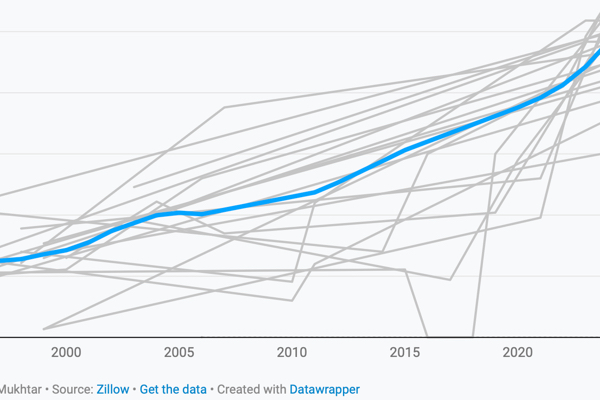
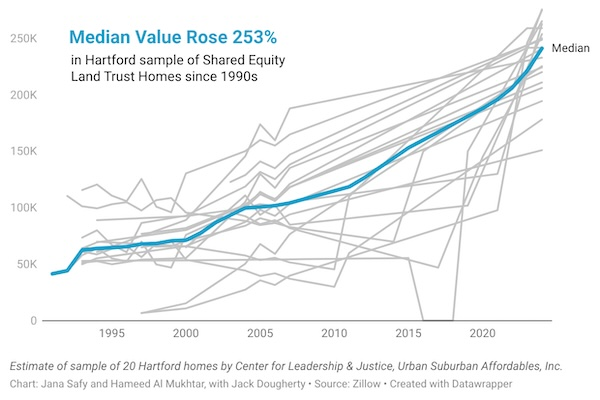
updated charting 30 years

diff --git a/_posts/2024-12-14-charting-30-years-clj.md b/_posts/2024-12-14-charting-30-years-clj.md
@@ -15,12 +15,8 @@ categories:
   - community engagement
 
 ---
-In partnership with the [Center for Leadership and Justice in Hartford CT](https://cljct.org), we tracked the effectiveness of their shared equity land trust program, one of the oldest and largest home ownership programs of its type in the Northeastern US. Shared equity land trusts, also known as [community land trusts](https://groundedsolutions.org/strengthening-neighborhoods/community-land-trusts/), allow lower-income buyers to purchase a home while the trust maintains ownership of the land to block speculators and assure that future resale prices remain affordable. As a class project for my [Data Visualization for All](https://datavizforall.org) course in Fall 2024, students and I cleaned up CLJ's dataset of 211 properties in this 30-year-old homeownership program, and linked the data to public assessor records to analyze trends. [Jana Safy and Hameed Almukhtar published their data story](https://datavizforall.org/clt-safy-almukhtar/), where they researched prices for a sample of homes in CLJ's Urban Suburban Affordables (USA) homeownership program. Median home prices in this sample rose 253 percent since they were acquired by CLJ, as shown by the blue line [in Figure 1](https://datawrapper.dwcdn.net/xjLMb/4/) below.
+In partnership with the [Center for Leadership and Justice in Hartford CT](https://cljct.org), we tracked the effectiveness of their shared equity land trust program, Urban Suburban Affordables Inc., one of the oldest and largest home ownership programs of its type in the Northeastern US. Shared equity land trusts, also known as [community land trusts](https://groundedsolutions.org/strengthening-neighborhoods/community-land-trusts/), allow lower-income buyers to purchase a home while the trust maintains ownership of the land to block speculators and assure that future resale prices remain affordable. As a class project for my [Data Visualization for All](https://datavizforall.org) course in Fall 2024, students and I cleaned up CLJ's dataset of 211 properties in this 30-year-old homeownership program, and linked the data to public assessor records to analyze trends. Teams of students, such as [Jana Safy and Hameed Almukhtar](https://datavizforall.org/clt-safy-almukhtar/), published data stories to highlight their findings with data visualizations. The co-authors tracked the sales transactions of a sample of 20 single-family shared equity land trust homes in Hartford since they were acquired beginning in the early 1990s. The median value of homes in this sample rose 253 percent over time, as shown by the blue line [in the chart below](https://www.datawrapper.de/_/McBh3/). In addition, Safy and Almukhtar found that the median value of this sample of shared equity trust homes did not rise as fast as typical home sales in the region during the same time period. Overall, their finding supports CLJ's efforts to support local homeownership while keeping resale prices affordable for the next generation of lower-income buyers.
 
-<iframe src="https://datawrapper.dwcdn.net/xjLMb/4/" width="90%" height="600px"></iframe>
-
-But CLJ median home sales prices did not rise as high as typical home sales in the metropolitan region during the same period, as shown [in Figure 2](https://datawrapper.dwcdn.net/0ZYJ9/1/) below. Overall, this finding supports CLJ's efforts to boost local homeownership while keeping resale prices affordable for the next generation of lower-income buyers.
-
-<iframe src="https://datawrapper.dwcdn.net/0ZYJ9/1/" width="90%" height="600px"></iframe>
+<iframe title="Median Value Rose 253% of Shared Equity Land Trust Homes in Hartford Sample Over Time" aria-label="Line chart" id="datawrapper-chart-McBh3" src="https://datawrapper.dwcdn.net/McBh3/1/" scrolling="no" frameborder="0" style="width: 0; min-width: 100% !important; border: none;" height="378" data-external="1"></iframe><script type="text/javascript">window.addEventListener("message",function(a){if(void 0!==a.data["datawrapper-height"]){var e=document.querySelectorAll("iframe");for(var t in a.data["datawrapper-height"])for(var r,i=0;r=e[i];i++)if(r.contentWindow===a.source){var d=a.data["datawrapper-height"][t]+"px";r.style.height=d}}});</script>
 
 To learn how [digital strategy coaching](/coaching/) can help your community organization, [email me](mailto:jack@jackdougherty.org) or schedule a free 30-minute Zoom meeting [on my calendar](/calendar/).
